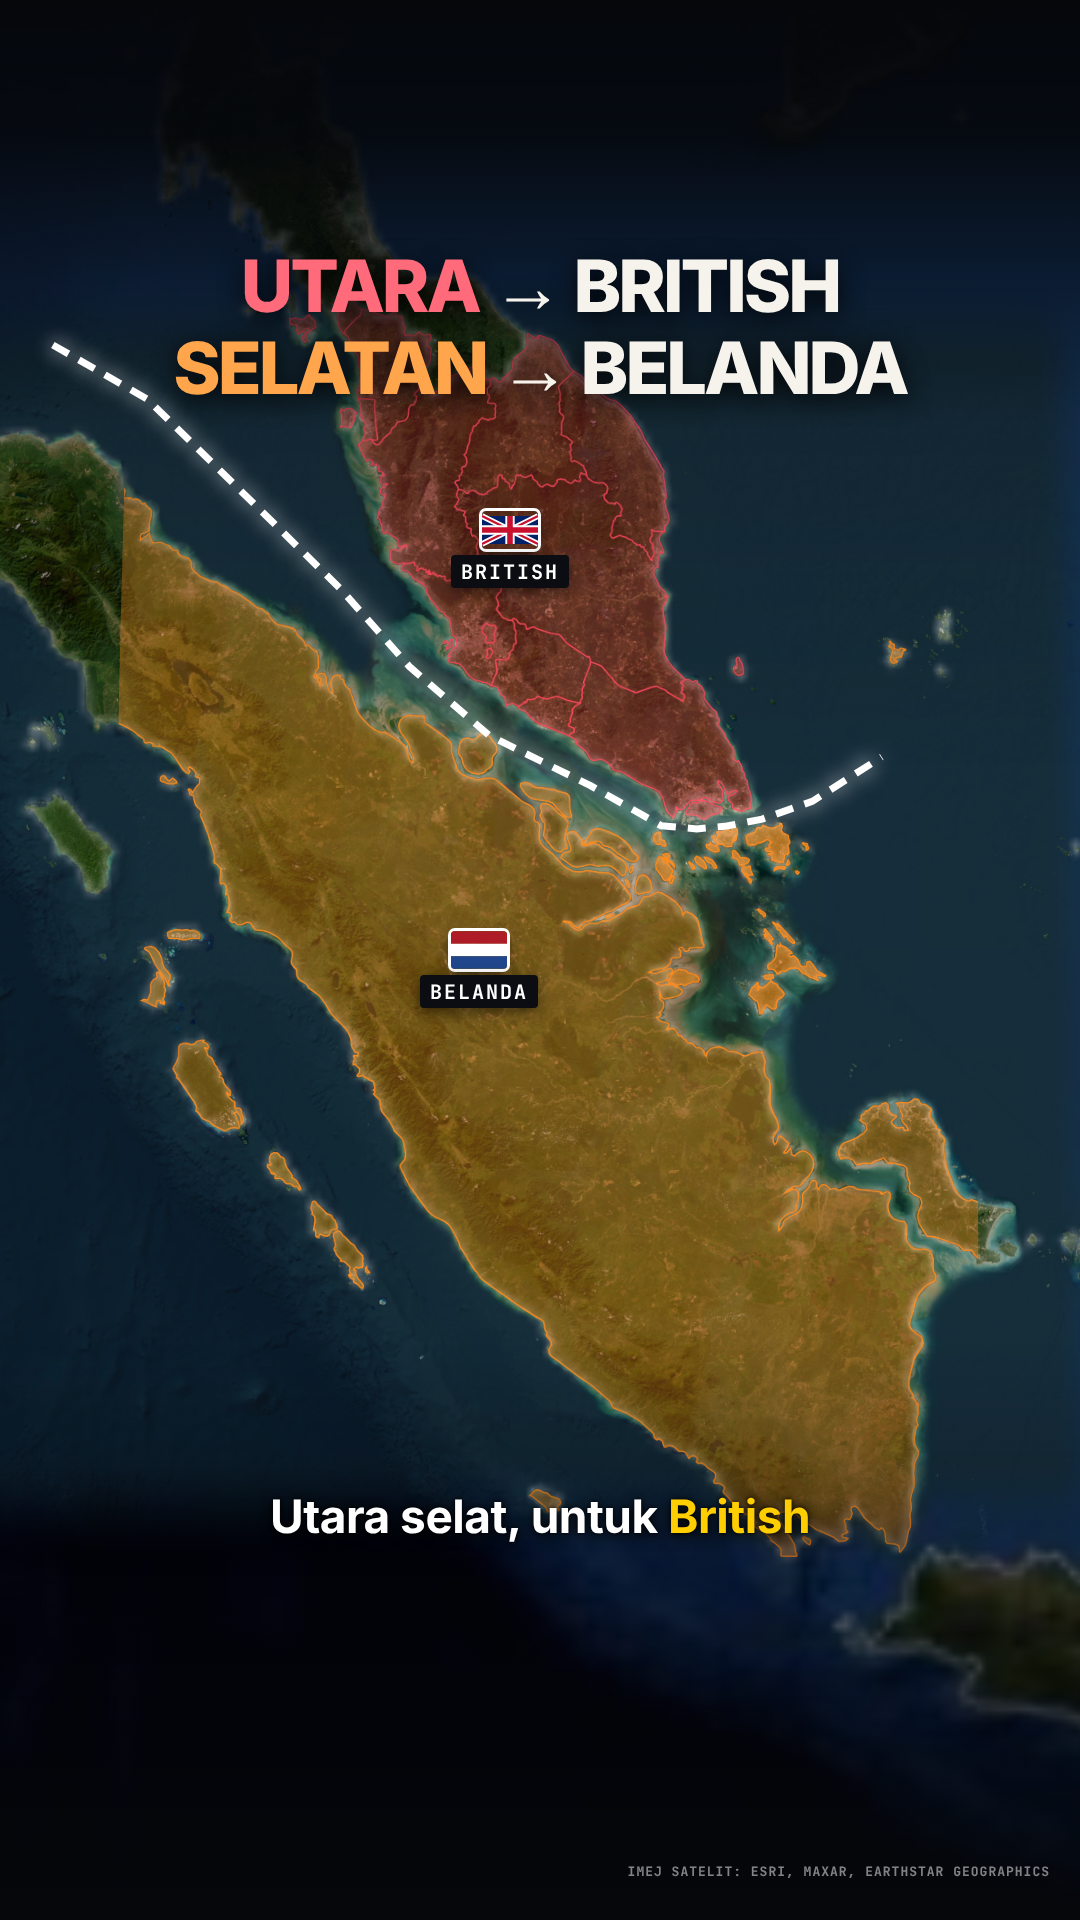
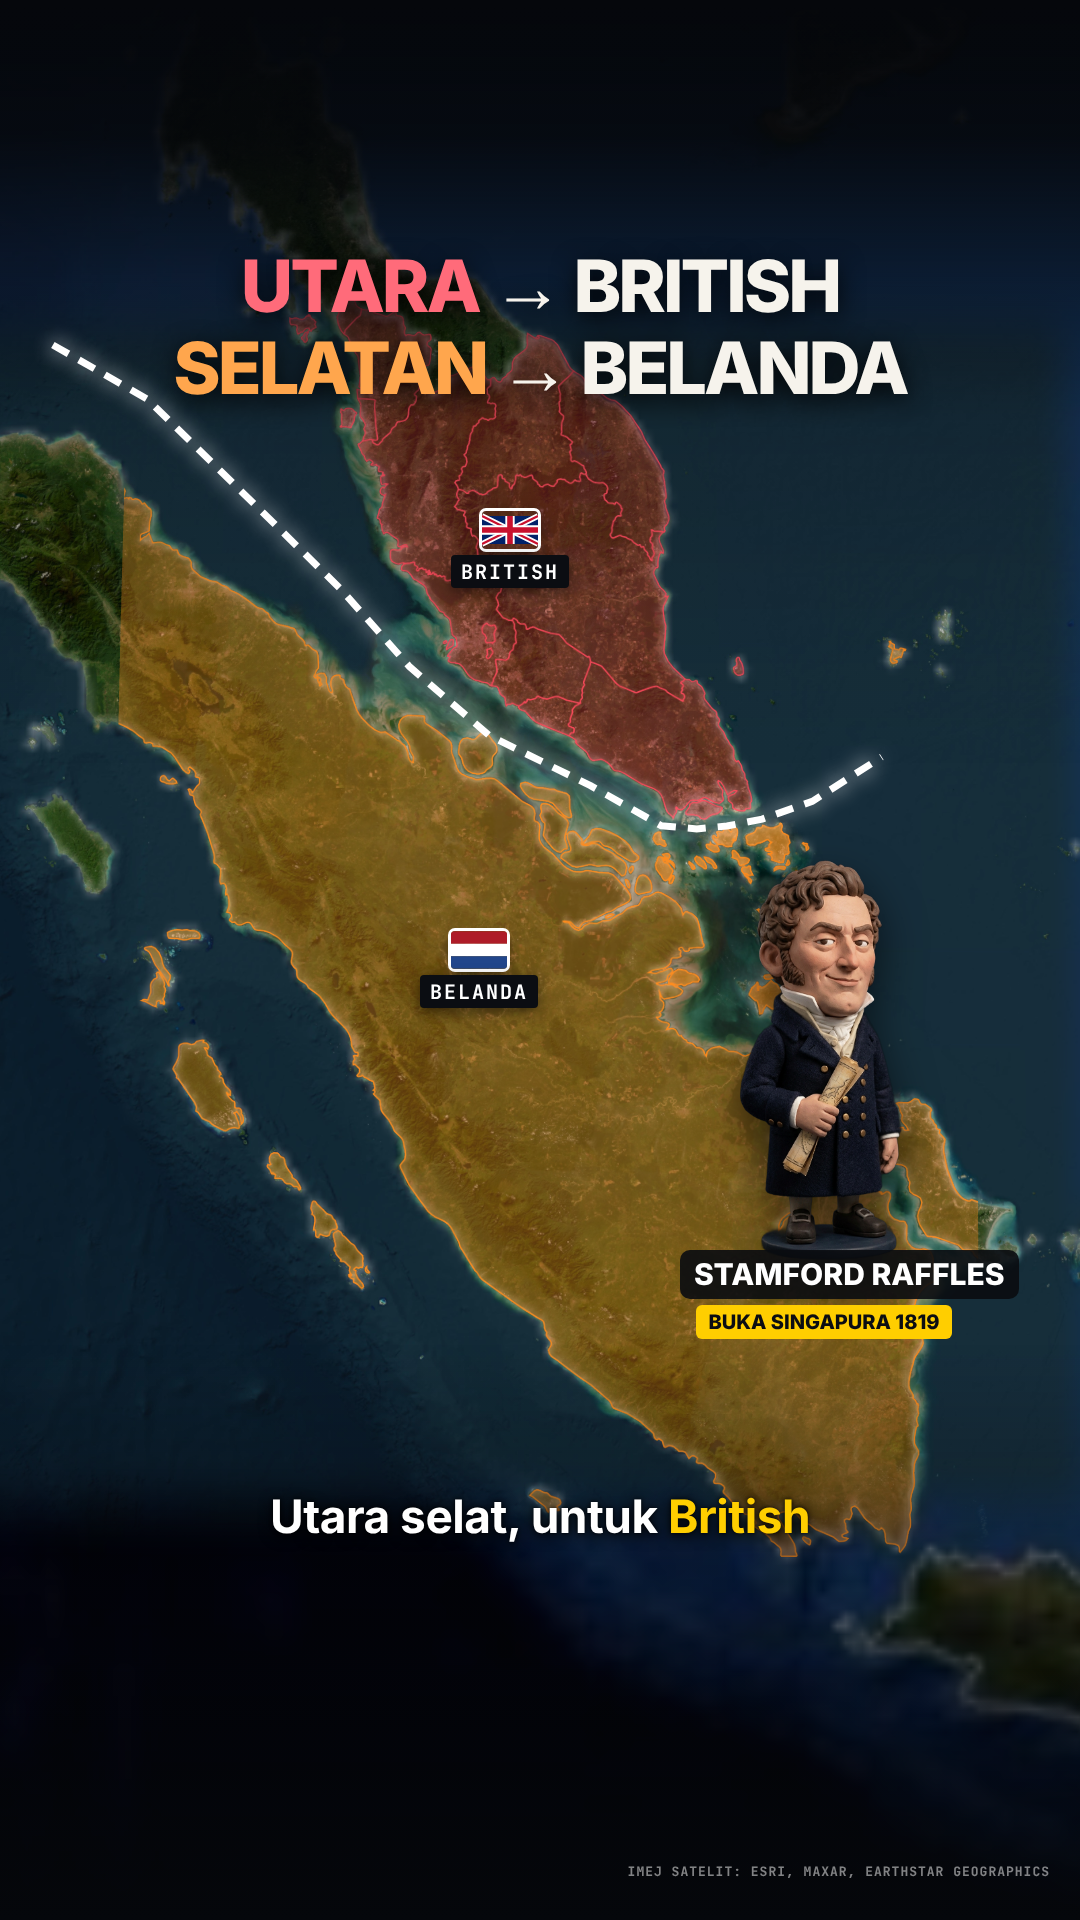
perjanjian1824-video: Raffles + Sultan Hussein caricatures in storyboard
Claude-Session: https://claude.ai/code/session_01GRVCpVLeEipRvyW43UFZDP

Changed region(s): [[0.6111, 0.4375, 0.9472, 0.7188]]

diff --git a/perjanjian1824-video/boards/storyboard.html b/perjanjian1824-video/boards/storyboard.html
@@ -19,4 +19,4 @@ h1{font:800 46px Inter;letter-spacing:-1px}h1 span{color:#ffce00}
 </style></head><body>
 <h1>PERJANJIAN 1824: <span>SATU GARISAN BELAH DUNIA MELAYU</span></h1>
 <div class="meta">MAP ANIMATION · 1080×1920 · ≈55 s · open loop "tanpa raja Melayu" + re-hook Johor-Riau · merah = British, oren = Belanda · fakta: Wikipedia (Anglo-Dutch Treaty 1824, Riau-Lingga)</div>
-<div class="grid"><div class="f"><img src="frame-01.png"><div><div class="n">01 · 0:00</div><div class="t">Hook + open loop</div><div class="vo">"Malaysia dan Indonesia, bahasa hampir sama, nenek moyang sama. Tapi kenapa jadi dua negara? Puncanya, satu perjanjian di London, tanpa seorang pun raja Melayu!"</div><div class="fx">Malaysia + Indonesia menyala <b>warna yang sama</b>, tanda <b>?</b> berdenyut di tengah selat, cop <b>PUNCANYA: SATU PERJANJIAN</b>.</div></div></div><div class="f"><img src="frame-02.png"><div><div class="n">02 · 0:09</div><div class="t">London 1824</div><div class="vo">"17 Mac 1824, British dan Belanda tandatangan Perjanjian Inggeris-Belanda."</div><div class="fx">Terbang ke London. Dokumen perjanjian: <b>Canning ✓, Fagel ✓</b>, baris <b>RAJA MELAYU: TIADA</b> + cop <b>TANPA RAJA MELAYU</b>.</div></div></div><div class="f"><img src="frame-03.png"><div><div class="n">03 · 0:16</div><div class="t">Melaka ⇄ Bengkulu</div><div class="vo">"Belanda serahkan Melaka kepada British. British serahkan Bengkulu, di Sumatera, kepada Belanda."</div><div class="fx">Imej satelit tajam. <b>Anak panah bersilang</b>, bendera bertukar: Melaka jadi 🇬🇧, Bengkulu jadi 🇳🇱.</div></div></div><div class="f"><img src="frame-04.png"><div><div class="n">04 · 0:23</div><div class="t">Garisan dilukis</div><div class="vo">"Utara selat, untuk British. Selatan, untuk Belanda."</div><div class="fx"><b>Garisan putih dilukis</b> menyusuri Selat Melaka & Selat Singapura. Utara bertukar <b>merah (British)</b>, selatan <b>oren (Belanda)</b>.</div></div></div><div class="f"><img src="frame-05.png"><div><div class="n">05 · 0:28</div><div class="t">Re-hook: Johor-Riau</div><div class="vo">"Tapi tunggu dulu! Garisan ni belah satu kerajaan Melayu jadi dua: Kesultanan Johor-Riau."</div><div class="fx"><b>Flash, muzik berhenti.</b> Zoom ke Johor-Riau, satu kerajaan <b>satu warna emas</b>.</div></div></div><div class="f"><img src="frame-06.png"><div><div class="n">06 · 0:35</div><div class="t">Terbelah dua</div><div class="vo">"Johor dan Singapura di bawah British. Riau dan Lingga di bawah Belanda. Dua beradik, jadi sultan di dua belah selat."</div><div class="fx">Garisan memotong kesultanan: Johor+Singapura <b>merah</b>, Riau+Lingga <b>oren</b>. <b>Karikatur Sultan Hussein & Sultan Abdul Rahman</b> jatuh masuk (perlu dijana).</div></div></div><div class="f"><img src="frame-07.png"><div><div class="n">07 · 0:44</div><div class="t">Jadi sempadan</div><div class="vo">"Dan garisan tu, akhirnya jadi sempadan Malaysia dan Indonesia."</div><div class="fx">Zoom keluar, garisan 1824 jadi <b>garisan emas sempadan</b> hari ini. Kad <b>GARISAN 1824 → SEMPADAN</b>.</div></div></div><div class="f"><img src="frame-08.png"><div><div class="n">08 · 0:49</div><div class="t">Isu komen</div><div class="vo">"Kalau perjanjian ni tak wujud, kita satu negara ke? Komen kat bawah!"</div><div class="fx">Dua kad <b>YA vs TAK</b>, gaya undian, dan <b>KOMEN ↓</b>.</div></div></div></div></body></html>
+<div class="grid"><div class="f"><img src="frame-01.png"><div><div class="n">01 · 0:00</div><div class="t">Hook + open loop</div><div class="vo">"Malaysia dan Indonesia, bahasa hampir sama, nenek moyang sama. Tapi kenapa jadi dua negara? Puncanya, satu perjanjian di London, tanpa seorang pun raja Melayu!"</div><div class="fx">Malaysia + Indonesia menyala <b>warna yang sama</b>, tanda <b>?</b> berdenyut di tengah selat, cop <b>PUNCANYA: SATU PERJANJIAN</b>.</div></div></div><div class="f"><img src="frame-02.png"><div><div class="n">02 · 0:09</div><div class="t">London 1824</div><div class="vo">"17 Mac 1824, British dan Belanda tandatangan Perjanjian Inggeris-Belanda."</div><div class="fx">Terbang ke London. Dokumen perjanjian: <b>Canning ✓, Fagel ✓</b>, baris <b>RAJA MELAYU: TIADA</b> + cop <b>TANPA RAJA MELAYU</b>.</div></div></div><div class="f"><img src="frame-03.png"><div><div class="n">03 · 0:16</div><div class="t">Melaka ⇄ Bengkulu</div><div class="vo">"Belanda serahkan Melaka kepada British. British serahkan Bengkulu, di Sumatera, kepada Belanda."</div><div class="fx">Imej satelit tajam. <b>Anak panah bersilang</b>, bendera bertukar: Melaka jadi 🇬🇧, Bengkulu jadi 🇳🇱.</div></div></div><div class="f"><img src="frame-04.png"><div><div class="n">04 · 0:23</div><div class="t">Garisan dilukis</div><div class="vo">"Utara selat, untuk British. Selatan, untuk Belanda."</div><div class="fx"><b>Garisan putih dilukis</b> menyusuri Selat Melaka & Selat Singapura. Utara bertukar <b>merah (British)</b>, selatan <b>oren (Belanda)</b>. <b>Karikatur Raffles</b> jatuh masuk di sisi British.</div></div></div><div class="f"><img src="frame-05.png"><div><div class="n">05 · 0:28</div><div class="t">Re-hook: Johor-Riau</div><div class="vo">"Tapi tunggu dulu! Garisan ni belah satu kerajaan Melayu jadi dua: Kesultanan Johor-Riau."</div><div class="fx"><b>Flash, muzik berhenti.</b> Zoom ke Johor-Riau, satu kerajaan <b>satu warna emas</b>.</div></div></div><div class="f"><img src="frame-06.png"><div><div class="n">06 · 0:35</div><div class="t">Terbelah dua</div><div class="vo">"Johor dan Singapura di bawah British. Riau dan Lingga di bawah Belanda. Dua beradik, jadi sultan di dua belah selat."</div><div class="fx">Garisan memotong kesultanan: Johor+Singapura <b>merah</b>, Riau+Lingga <b>oren</b>. <b>Karikatur Sultan Hussein</b> jatuh masuk di Johor; kad <b>Sultan Abdul Rahman</b> di Lingga.</div></div></div><div class="f"><img src="frame-07.png"><div><div class="n">07 · 0:44</div><div class="t">Jadi sempadan</div><div class="vo">"Dan garisan tu, akhirnya jadi sempadan Malaysia dan Indonesia."</div><div class="fx">Zoom keluar, garisan 1824 jadi <b>garisan emas sempadan</b> hari ini. Kad <b>GARISAN 1824 → SEMPADAN</b>.</div></div></div><div class="f"><img src="frame-08.png"><div><div class="n">08 · 0:49</div><div class="t">Isu komen</div><div class="vo">"Kalau perjanjian ni tak wujud, kita satu negara ke? Komen kat bawah!"</div><div class="fx">Dua kad <b>YA vs TAK</b>, gaya undian, dan <b>KOMEN ↓</b>.</div></div></div></div></body></html>

diff --git a/perjanjian1824-video/boards/frame.html b/perjanjian1824-video/boards/frame.html
@@ -293,6 +293,7 @@ const flagPin = (ll, k, label, sub, dy = 0) => { const p = g.project(ll[0], ll[1
 const pin = (ll, label, sub, red) => { const p = g.project(ll[0], ll[1]);
   html(`<div class="pin" style="left:${p.x}px;top:${p.y}px;flex-direction:row;align-items:center;transform:translate(-13px,-50%)"><div class="dot ${red ? "red" : ""}"></div><div style="display:flex;flex-direction:column;align-items:flex-start;gap:6px"><div class="lab">${label}</div>${sub ? `<div class="sub ${red ? "red" : ""}">${sub}</div>` : ""}</div></div>`); return p; };
 const credit = () => html(`<div style="position:absolute;right:30px;bottom:40px;font:700 13px Mono;color:rgba(255,255,255,.5);letter-spacing:1px">IMEJ SATELIT: ESRI, MAXAR, EARTHSTAR GEOGRAPHICS</div>`);
+const fig = (left, top, h, src, name, role, flip) => html(`<img class="fig" src="../assets/leaders/${src}" style="left:${left}px;top:${top}px;height:${h}px;${flip ? "transform:scaleX(-1)" : ""}"><div class="np2" style="left:${left - 60}px;width:${h * 0.42 + 120}px;top:${top + h - 10}px"><b>${name}</b><br><i>${role}</i></div>`);
 const ph = (left, top, w, h, who, note) => html(`<div class="ph3" style="left:${left}px;top:${top}px;width:${w}px;height:${h}px"><svg viewBox="0 0 60 90" width="110" height="160" style="opacity:.7"><circle cx="30" cy="20" r="16" fill="#ffce00"/><path d="M4 90 Q4 44 30 42 Q56 44 56 90Z" fill="#ffce00"/></svg><div>KARIKATUR<br>${who}</div><em style="font-style:normal;color:#fff;font-size:16px">${note}</em></div>`);
 const LINE = [[6.2, 97.2], [5.6, 98.2], [4.6, 99.2], [3.6, 100.2], [2.8, 100.9], [2.1, 101.7], [1.6, 102.7], [1.2, 103.4], [1.17, 103.75], [1.2, 104.05], [1.27, 104.4], [1.45, 104.9], [1.9, 105.6]];
 const strait = (col = "#fff", dash = true, w = 7) => { const pts = LINE.map(([la, lo]) => g.project(la, lo)); html(`<svg style="position:absolute;inset:0" width="1080" height="1920"><path d="M${pts.map((p) => p.x + " " + p.y).join(" L")}" fill="none" stroke="${col}" stroke-width="${w}" ${dash ? 'stroke-dasharray="18 12"' : ""} style="filter:drop-shadow(0 0 10px ${col})"/></svg>`); };
@@ -320,7 +321,7 @@ const FR = {
     capB(`Belanda serahkan <span class="r">Melaka</span> kepada British`); },
   4() { g.setView(VS); credit(); fill([...MALAYA, ...SGP], ...BR, 3, RZ); fill(SUMATRA.concat(RIAU), ...NL, 3, RZ); strait("#fff");
     html(`<div class="ttl" style="top:250px"><div class="b" style="font-size:72px"><span style="color:#ff6b7a">UTARA</span> → BRITISH</div><div class="b" style="font-size:72px;margin-top:10px"><span style="color:#ffa64d">SELATAN</span> → BELANDA</div></div>`);
-    flagPin([3.6, 101.9], "uk", "BRITISH", ""); flagPin([-0.6, 101.6], "nl", "BELANDA", "");
+    flagPin([3.6, 101.9], "uk", "BRITISH", ""); flagPin([-0.6, 101.6], "nl", "BELANDA", ""); fig(740, 860, 400, "raffles-fig.png", "STAMFORD RAFFLES", "BUKA SINGAPURA 1819");
     capB(`Utara selat, untuk <span class="r">British</span>`); },
   5() { g.setView({ lat: 1.0, lon: 104.1, dist: 0.26, tilt: 8, yShift: 0.1 }); credit(); fill([...JOHOR, ...SGP, ...RIAU], ...GOLD, 3, RJ);
     html(`<div style="position:absolute;inset:0;background:radial-gradient(ellipse at 50% 45%,rgba(5,10,30,0),rgba(5,10,30,.5))"></div>`);
@@ -330,7 +331,7 @@ const FR = {
     capB(`belah satu kerajaan Melayu <span class="r">jadi dua</span>`); },
   6() { g.setView({ lat: 1.0, lon: 104.1, dist: 0.26, tilt: 8, yShift: 0.1 }); credit(); fill([...JOHOR, ...SGP], ...BR, 3, RJ); fill(RIAU, ...NL, 3, RJ); strait("#fff");
     flagPin([1.9, 103.45], "uk", "JOHOR + SINGAPURA", "BAWAH BRITISH", -10); flagPin([-0.05, 104.55], "nl", "RIAU + LINGGA", "BAWAH BELANDA", -10);
-    ph(50, 880, 280, 400, "SULTAN HUSSEIN", "ditabal British · 1819"); ph(750, 880, 280, 400, "SULTAN ABDUL RAHMAN", "ditabal Belanda");
+    fig(70, 840, 400, "hussein-fig.png", "SULTAN HUSSEIN", "DITABAL BRITISH · 1819"); html(`<div class="ncard" style="top:1000px;left:auto;right:50px;width:420px;padding:18px 22px;border:3px solid #ff8c1e"><div><div style="font:800 34px Inter;color:#fff">SULTAN<br>ABDUL RAHMAN</div><div class="rl" style="color:#ffa64d">DITABAL BELANDA · LINGGA</div></div></div>`);
     html(`<div class="stamp2 gold" style="top:1300px;font-size:40px">DUA BERADIK, DUA SULTAN</div>`);
     capB(`Dua beradik, jadi sultan di <span class="r">dua belah selat</span>`); },
   7() { g.setView({ lat: 1.6, lon: 104.5, dist: 0.95, tilt: 8, yShift: 0.08 }); credit(); fill(MYALL, ...GOLD, 2); fill(IDN, "rgba(255,255,255,.12)", "#fff", 2); strait("#ffce00", false, 6);
